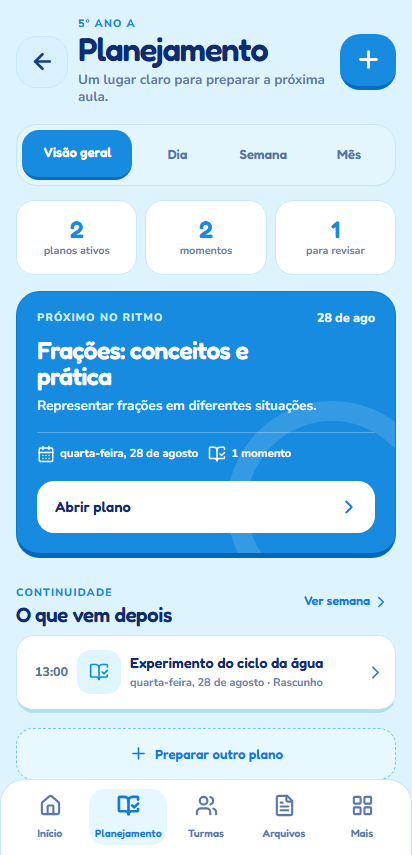
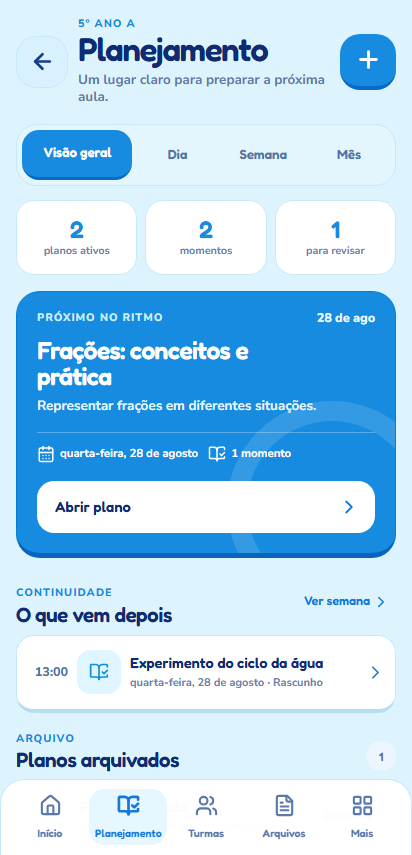
feat: restore archived lesson plans

Changed region(s): [[0.0291, 0.8515, 0.4951, 0.9123], [0.5243, 0.8515, 0.6699, 0.9123]]

diff --git a/src/v2/screens/PlanningOverviewV2.tsx b/src/v2/screens/PlanningOverviewV2.tsx
@@ -14,6 +14,7 @@ type Props = {
   onBack?: () => void;
   onRetry?: () => void;
   onOpenPlan?: (plan: LessonPlan) => void;
+  onRestorePlan?: (plan: LessonPlan) => void;
   onCreatePlan?: () => void;
   onViewChange?: (view: 'day' | 'week' | 'month') => void;
   onTabChange?: (tab: 'inicio' | 'planejamento' | 'turmas' | 'arquivos' | 'mais') => void;
@@ -38,8 +39,9 @@ function statusLabel(plan: LessonPlan) {
   return 'Rascunho';
 }
 
-export function PlanningOverviewV2({ className = 'Sua turma', plans, loading = false, error = '', offline = false, onBack = () => undefined, onRetry = () => undefined, onOpenPlan = () => undefined, onCreatePlan = () => undefined, onViewChange = () => undefined, onTabChange = () => undefined }: Props) {
+export function PlanningOverviewV2({ className = 'Sua turma', plans, loading = false, error = '', offline = false, onBack = () => undefined, onRetry = () => undefined, onOpenPlan = () => undefined, onRestorePlan = () => undefined, onCreatePlan = () => undefined, onViewChange = () => undefined, onTabChange = () => undefined }: Props) {
   const activePlans = React.useMemo(() => plans.filter((plan) => !plan.arquivadoEm).sort((a, b) => keyOf(a.dataKey) - keyOf(b.dataKey) || (a.horaInicio || '99:99').localeCompare(b.horaInicio || '99:99')), [plans]);
+  const archivedPlans = React.useMemo(() => plans.filter((plan) => plan.arquivadoEm).sort((a, b) => (b.arquivadoEm || '').localeCompare(a.arquivadoEm || '')), [plans]);
   const nextPlan = activePlans[0];
   const drafts = activePlans.filter((plan) => plan.status === 'rascunho').length;
   const plannedMoments = activePlans.reduce((total, plan) => total + (plan.momentos?.length || 0), 0);
@@ -53,6 +55,7 @@ export function PlanningOverviewV2({ className = 'Sua turma', plans, loading = f
       <section className="v2-planning-overview__summary" aria-label="Resumo do planejamento"><div><strong>{activePlans.length}</strong><span>planos ativos</span></div><div><strong>{plannedMoments}</strong><span>momentos</span></div><div><strong>{drafts}</strong><span>para revisar</span></div></section>
       {loading ? <div className="v2-planning-overview__state" role="status"><LoaderCircle className="is-spinning" size={28} /><strong>Carregando seus planos...</strong><p>Buscando o planejamento salvo nesta turma.</p></div> : nextPlan ? <section className="v2-planning-overview__focus" aria-labelledby="planning-overview-focus-title"><div className="v2-planning-overview__focus-top"><span className="v2-eyebrow">PRÓXIMO NO RITMO</span><span className="v2-planning-overview__focus-date">{shortDate(nextPlan.dataKey)}</span></div><h2 id="planning-overview-focus-title">{nextPlan.tituloTema || 'Plano sem título'}</h2><p>{nextPlan.objetivoGeral || 'Defina o objetivo geral e prepare os momentos desta aula.'}</p><div className="v2-planning-overview__focus-meta"><span><CalendarDays size={18} />{dateLabel(nextPlan.dataKey)}</span><span><BookOpenCheck size={18} />{nextPlan.momentos?.length || 0} momento{nextPlan.momentos?.length === 1 ? '' : 's'}</span></div><button className="v2-planning-overview__focus-action v2-pressable" type="button" onClick={() => onOpenPlan(nextPlan)}>Abrir plano <ChevronRight size={22} /></button></section> : <section className="v2-planning-overview__empty" aria-labelledby="planning-overview-empty-title"><CalendarDays size={34} aria-hidden="true" /><h2 id="planning-overview-empty-title">Seu próximo encontro começa aqui</h2><p>Crie um plano para guardar objetivos, momentos e habilidades BNCC.</p><button className="v2-primary-action v2-pressable" type="button" onClick={onCreatePlan}><Plus size={19} /> Criar plano de aula</button></section>}
       <section className="v2-planning-overview__upcoming" aria-labelledby="planning-overview-upcoming-title"><div className="v2-planning-overview__section-heading"><div><span className="v2-eyebrow">CONTINUIDADE</span><h2 id="planning-overview-upcoming-title">O que vem depois</h2></div><button type="button" onClick={() => onViewChange('week')}>Ver semana <ChevronRight size={18} /></button></div>{activePlans.length > 1 ? activePlans.slice(1, 4).map((plan) => <button className="v2-planning-overview__plan-row v2-pressable" type="button" key={plan.id} onClick={() => onOpenPlan(plan)}><time>{plan.horaInicio || '—'}</time><span className="v2-planning-overview__plan-mark"><BookOpenCheck size={20} /></span><span className="v2-planning-overview__plan-copy"><strong>{plan.tituloTema || 'Plano sem título'}</strong><small>{dateLabel(plan.dataKey)} · {statusLabel(plan)}</small></span><ChevronRight size={21} /></button>) : <p className="v2-planning-overview__quiet">Ainda não há outro plano na sequência. Você pode criar o próximo quando quiser.</p>}</section>
+      {archivedPlans.length > 0 && <section className="v2-planning-overview__archived" aria-labelledby="planning-overview-archived-title"><div className="v2-planning-overview__section-heading"><div><span className="v2-eyebrow">ARQUIVO</span><h2 id="planning-overview-archived-title">Planos arquivados</h2></div><span className="v2-planning-overview__archived-count">{archivedPlans.length}</span></div>{archivedPlans.slice(0, 3).map((plan) => <article className="v2-planning-overview__archived-row" key={plan.id}><button className="v2-planning-overview__archived-open v2-pressable" type="button" onClick={() => onOpenPlan(plan)}><span className="v2-planning-overview__plan-mark"><BookOpenCheck size={20} /></span><span className="v2-planning-overview__plan-copy"><strong>{plan.tituloTema || 'Plano sem título'}</strong><small>{dateLabel(plan.dataKey)} · {statusLabel(plan)}</small></span></button><button className="v2-planning-overview__restore v2-pressable" type="button" onClick={() => onRestorePlan(plan)}>Restaurar</button></article>)}</section>}
       <button className="v2-planning-overview__quick-add v2-pressable" type="button" onClick={onCreatePlan}><Plus size={19} /> Preparar outro plano</button>
       <nav className="v2-planning-overview__bottom-nav" aria-label="Navegação principal">{navItems.map(({ id, label, icon: Icon }) => <button key={id} type="button" className={`v2-planning-overview__nav-item v2-pressable${id === 'planejamento' ? ' is-selected' : ''}`} aria-current={id === 'planejamento' ? 'page' : undefined} onClick={() => onTabChange(id)}><Icon size={23} strokeWidth={id === 'planejamento' ? 2.8 : 2.2} /><span>{label}</span></button>)}</nav>
     </div>

diff --git a/src/v2/preview/V2Preview.tsx b/src/v2/preview/V2Preview.tsx
@@ -103,6 +103,7 @@ const planningPreviewPlans: LessonPlan[] = [
   { id: 'plan-math', turmaId: 'preview', dataKey: '2024-08-28', tituloTema: 'Frações: conceitos e prática', horaInicio: '10:00', horaFim: '10:50', status: 'concluido', objetivoGeral: 'Representar frações em diferentes situações.', objetivosEspecificos: [], bncc: { habilidades: ['EF05MA03'] }, momentos: [{ id: 'moment-math', titulo: 'Matemática', horario: '10:00', duracaoMin: 50, descricao: '5º Ano A · Sala 1', tipo: 'aula' }], recursos: '', avaliacao: '', inclusao: '', observacoes: '', posAula: { comoFoi: null, observacoesPosAula: '' }, criadoEm: '2024-08-01T10:00:00.000Z', atualizadoEm: '2024-08-01T10:00:00.000Z' },
   { id: 'plan-science', turmaId: 'preview', dataKey: '2024-08-28', tituloTema: 'Experimento do ciclo da água', horaInicio: '13:00', horaFim: '13:50', status: 'rascunho', objetivoGeral: 'Observar mudanças de estado.', objetivosEspecificos: [], bncc: { habilidades: [] }, momentos: [{ id: 'moment-science', titulo: 'Ciências', horario: '13:00', duracaoMin: 50, descricao: '5º Ano A · Sala 1', tipo: 'aula' }], recursos: '', avaliacao: '', inclusao: '', observacoes: '', posAula: { comoFoi: null, observacoesPosAula: '' }, criadoEm: '2024-08-01T10:00:00.000Z', atualizadoEm: '2024-08-01T10:00:00.000Z' },
 ];
+planningPreviewPlans.push({ ...planningPreviewPlans[1], id: 'plan-archived', tituloTema: 'Plano arquivado', arquivadoEm: '2024-08-27T10:00:00.000Z' });
 const classesPreview = [{ id: 'class-a', nome: '5º Ano A', nivel: 'Ensino Fundamental', turno: 'Matutino' }, { id: 'class-b', nome: '4º Ano B', nivel: 'Ensino Fundamental', turno: 'Vespertino' }];
 const classStudentsPreview = frequencyPreviewData.students.slice(0, 6).map(({ id, name, color }) => ({ id, nome: name, cor: color }));
 const studentProfilePreview = { id: 'ana', nome: 'Ana Clara Souza', cor: '#1cb0f6', dataNascimento: '2015-03-12', responsavel: 'Carolina Souza', contato: '11987654321', presencas: 18, faltas: 2, atrasos: 1 };
@@ -193,7 +194,7 @@ export function V2Preview() {
           ) : activeScreen === 'commitments' ? (
             <CommitmentsV2 events={commitmentsPreviewEvents} initialDate="2024-08-28" className="5º Ano A" onBack={() => setActiveScreen('home')} onSave={() => undefined} onDelete={() => undefined} onPeriodChange={(period) => setActiveScreen(period === 'week' ? 'planning-week' : 'planning-month')} />
           ) : activeScreen === 'planning-overview' ? (
-            <PlanningOverviewV2 plans={planningPreviewPlans} className="5º Ano A" onBack={() => setActiveScreen('home')} onOpenPlan={() => setActiveScreen('plan-editor')} onCreatePlan={() => setActiveScreen('plan-editor')} onViewChange={(view) => setActiveScreen(view === 'day' ? 'planning-day' : view === 'week' ? 'planning-week' : 'planning-month')} />
+            <PlanningOverviewV2 plans={planningPreviewPlans} className="5º Ano A" onBack={() => setActiveScreen('home')} onOpenPlan={() => setActiveScreen('plan-editor')} onRestorePlan={() => undefined} onCreatePlan={() => setActiveScreen('plan-editor')} onViewChange={(view) => setActiveScreen(view === 'day' ? 'planning-day' : view === 'week' ? 'planning-week' : 'planning-month')} />
           ) : activeScreen === 'planning-day' ? (
             <PlanningDayV2 plans={planningPreviewPlans} dateKey="2024-08-28" className="5º Ano A" onBack={() => setActiveScreen('home')} onViewChange={(view) => setActiveScreen(view === 'week' ? 'planning-week' : 'planning-month')} onOpenPlan={() => setActiveScreen('plan-editor')} onCreatePlan={() => setActiveScreen('plan-editor')} />
           ) : activeScreen === 'planning-week' || activeScreen === 'planning-month' ? (

diff --git a/src/v2/screens/planning-overview-v2.css b/src/v2/screens/planning-overview-v2.css
@@ -52,3 +52,9 @@
 @keyframes v2-planning-overview-spin { to { transform: rotate(360deg); } }
 @media (max-width: 359px) { .v2-planning-overview__screen { padding-inline: 12px; } .v2-planning-overview__header { grid-template-columns: 48px minmax(0, 1fr) 50px; gap: 6px; } .v2-planning-overview__back { width: 48px; height: 48px; } .v2-planning-overview__add { width: 50px; height: 50px; } .v2-planning-overview__header h1 { font-size: 1.65rem; } .v2-planning-overview__tabs { grid-template-columns: 1.15fr repeat(3, 1fr); gap: 2px; } .v2-planning-overview__tabs button { font-size: .72rem; } .v2-planning-overview__focus { padding: 17px; } .v2-planning-overview__focus h2 { max-width: 100%; font-size: 1.3rem; } .v2-planning-overview__plan-row { grid-template-columns: 38px 40px minmax(0, 1fr) 20px; gap: 6px; } .v2-planning-overview__plan-mark { width: 40px; height: 40px; } }
 @media (prefers-reduced-motion: reduce) { .v2-planning-overview *, .v2-planning-overview *::before, .v2-planning-overview *::after { transition: none !important; animation: none !important; } }
+.v2-planning-overview__archived { margin-top: 20px; }
+.v2-planning-overview__archived-count { display: grid; min-width: 30px; min-height: 30px; place-items: center; border-radius: 999px; background: #edf6ff; color: #5c78aa; font: 800 .76rem "Fredoka", sans-serif; }
+.v2-planning-overview__archived-row { display: flex; align-items: center; gap: 8px; min-height: 70px; padding: 8px 10px; border-top: 1px solid #d8edf7; background: rgb(255 255 255 / 72%); }
+.v2-planning-overview__archived-open { display: flex; min-width: 0; flex: 1; align-items: center; gap: 10px; padding: 0; border: 0; background: transparent; text-align: left; }
+.v2-planning-overview__archived-open .v2-planning-overview__plan-mark { flex: 0 0 auto; opacity: .7; }
+.v2-planning-overview__restore { min-height: 48px; padding: 0 10px; border: 1px solid #a6dcf6; border-radius: 13px; background: #eefaff; color: #147bd4; font: 800 .72rem "Nunito Sans", sans-serif; }

diff --git a/src/screens/App.js b/src/screens/App.js
@@ -433,6 +433,15 @@ function App() {
       });
       ae.dataKey === dateKey(new Date()) && Ue(qe);
     },
+    restorePlanV2 = async (ae) => {
+      const qe = await repository.salvarPlano({
+        ...ae,
+        arquivadoEm: null,
+        atualizadoEm: nowISO(),
+      });
+      ae.dataKey === dateKey(new Date()) && Ue(qe);
+      setPlanningV2Reload((value) => value + 1);
+    },
     Ya = async (ae = repository.turmaAtivaId) => {
       if (ae)
         try {
@@ -888,6 +897,7 @@ function App() {
     onBack: () => kn("inicio"),
     onRetry: () => setPlanningV2Reload((value) => value + 1),
     onOpenPlan: (plan) => zt("plano-aula", { plano: plan, dataKey: plan.dataKey }),
+    onRestorePlan: (plan) => { void restorePlanV2(plan); },
     onCreatePlan: () => zt("plano-aula", { plano: newLessonPlan({ turmaId: M?.id, dataKey: planningV2Date }), dataKey: planningV2Date, isNew: true }),
     onViewChange: (view) => zt(view === "day" ? "planejamento-dia" : view === "week" ? "planejamento-semana" : "planejamento-mes", { dataKey: planningV2Date }),
     onTabChange: (tab) => xr({ inicio: "inicio", planejamento: "plano", turmas: "turmas-v2", arquivos: "biblioteca", mais: "mais" }[tab]),

diff --git a/e2e/v2-planning-overview-flow.pw.ts b/e2e/v2-planning-overview-flow.pw.ts
@@ -6,6 +6,8 @@ test('Planejamento overview V2 mantém a próxima aula dominante e abre o plano'
   const device = page.locator('.v2-preview-device');
   await expect(device.getByRole('heading', { name: 'Planejamento' })).toBeVisible();
   await expect(device.getByRole('heading', { name: 'Frações: conceitos e prática' })).toBeVisible();
+  await expect(device.getByRole('heading', { name: 'Planos arquivados', exact: true })).toBeVisible();
+  await expect(device.getByRole('button', { name: 'Restaurar', exact: true })).toBeVisible();
   await device.getByRole('button', { name: 'Abrir plano' }).click();
   await expect(device.getByRole('heading', { name: 'Editar plano' })).toBeVisible();
 });
